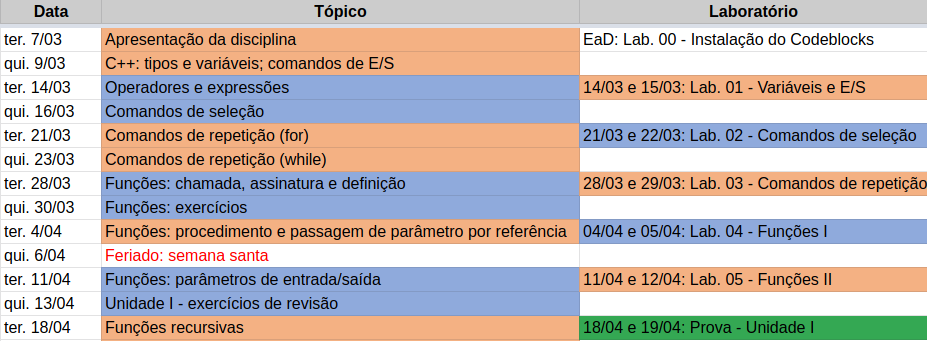
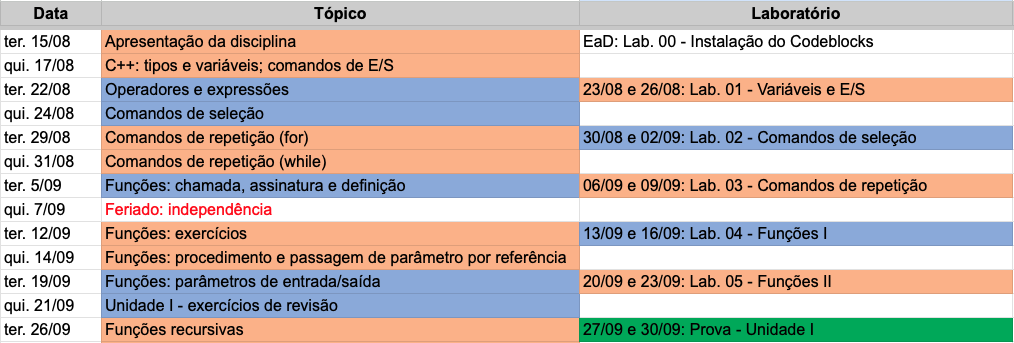
Arquivos da aula 1 atualizados para 2023.2

diff --git a/docs/slides/01-intro/01-intro.html b/docs/slides/01-intro/01-intro.html
@@ -345,7 +345,7 @@ Prof.&nbsp;Bruno Silva
 <ul>
 <li>Por que é tão importante?</li>
 <li>Por que 90h?</li>
-<li>Qual a relação com o curso de Bacharelado em Ciências e Tecnologia?</li>
+<li>Qual a relação com o curso de Bacharelado em Ciências e Tecnologia e com as engenharias?</li>
 </ul>
 </section>
 <section id="linguagem-de-programação-1" class="slide level2">
@@ -383,8 +383,7 @@ Prof.&nbsp;Bruno Silva
 <li>Atendimento:
 <ul>
 <li>Via email: bruno.silva@ect.ufrn.br</li>
-<li>Via <a href="https://discord.gg/JtSUgFdmxd">Discord</a></li>
-<li>Horário para a turma: terças e quintas, das 9:30 às 10:30</li>
+<li>Via <a href="https://discord.gg/hZ3VwKwV">Discord</a></li>
 </ul></li>
 <li>Áreas de interesse:
 <ul>
@@ -396,7 +395,7 @@ Prof.&nbsp;Bruno Silva
 <section id="sobre-a-disciplina" class="slide level2">
 <h2>Sobre a Disciplina</h2>
 <ul>
-<li>Aulas teóricas: terças e quintas, de 10:50 às 12:30, Auditório F da ECT</li>
+<li>Aulas teóricas: terças e quintas, de 20:35 às 22:00, Auditório E da ECT</li>
 <li>Carga horária: 90 horas (30h de laboratório)</li>
 <li>Metodologia:
 <ul>
@@ -409,9 +408,9 @@ Prof.&nbsp;Bruno Silva
 <section id="horários-dos-laboratórios" class="slide level2">
 <h2>Horários dos Laboratórios</h2>
 <ul>
-<li>Subturma 1A: Terça, 16:50 às 18:30, Lab. 3 (Prof.&nbsp;Bruno)</li>
-<li>Subturma 1B: Quarta, 14:55 às 16:35, Lab. 3 (Prof.&nbsp;Vidal)</li>
-<li>Subturma 1C: Quarta, 16:50 às 18:30, Lab. 3 (Prof.&nbsp;Vidal)</li>
+<li>Subturma 4A: Quarta, 13:00 às 14:40, Lab. 1 (Prof.&nbsp;Sérgio)</li>
+<li>Subturma 4B: Quarta, 14:55 às 16:35, Lab. 1 (Prof.&nbsp;Sérgio)</li>
+<li>Subturma 4C: Sábado, 16:50 às 18:30, Lab. 3 (Prof.&nbsp;Allan)</li>
 </ul>
 <p>As atividades práticas serão realizadas no <a href="https://multiprova.ufrn.br">Multiprova</a></p>
 </section>
@@ -435,22 +434,34 @@ Prof.&nbsp;Bruno Silva
 </ul></li>
 </ul>
 </section>
-<section id="cronograma" class="slide level2">
+<section id="cronograma" class="slide level2 nostretch">
 <h2>Cronograma</h2>
 <h4 id="unidade-1">Unidade 1</h4>
-
-<img data-src="unidade1.png" width="800" class="r-stretch"></section>
-<section id="cronograma-1" class="slide level2">
+<div class="quarto-figure quarto-figure-center">
+<figure>
+<p><img data-src="unidade1.png" style="width:95.0%"></p>
+</figure>
+</div>
+</section>
+<section id="cronograma-1" class="slide level2 nostretch">
 <h2>Cronograma</h2>
 <h4 id="unidade-2">Unidade 2</h4>
-
-<img data-src="unidade2.png" width="800" class="r-stretch"></section>
-<section id="cronograma-2" class="slide level2">
+<div class="quarto-figure quarto-figure-center">
+<figure>
+<p><img data-src="unidade2.png" style="width:95.0%"></p>
+</figure>
+</div>
+</section>
+<section id="cronograma-2" class="slide level2 nostretch">
 <h2>Cronograma</h2>
 <h4 id="unidade-3">Unidade 3</h4>
-
-<img data-src="unidade3.png" width="800" class="r-stretch"></section>
-<section id="livros-utilizados" class="slide level2">
+<div class="quarto-figure quarto-figure-center">
+<figure>
+<p><img data-src="unidade3.png" style="width:95.0%"></p>
+</figure>
+</div>
+</section>
+<section id="livros-utilizados" class="slide level2 nostretch">
 <h2>Livros Utilizados</h2>
 <div class="quarto-layout-panel">
 <div class="quarto-layout-row quarto-layout-valign-top">
@@ -469,7 +480,7 @@ Prof.&nbsp;Bruno Silva
 <section id="perguntas-frequentes" class="slide level2">
 <h2>Perguntas Frequentes</h2>
 <ul>
-<li><p><em>Posso assistir aula em uma subturma de laboratório que não seja a minha?</em> Neste semestre estamos oferecendo esta flexibilidade. Fale com o professor responsável pelo seu laboratório.</p></li>
+<li><p><em>Posso assistir aula em uma subturma de laboratório que não seja a minha?</em> Não. Caso não seja possível que você compareça às aulas de laboratório, é aconselhável que você se matricule em outra turma.</p></li>
 <li><p><em>Esta semana tem aula de laboratório?</em> Na disciplina de LiP, os laboratórios são semanais. Caso não haja nenhum aviso (no SIGAA), a resposta provavelmente é sim. Na dúvida, confira o plano de aulas no SIGAA.</p></li>
 </ul>
 </section>
@@ -493,7 +504,6 @@ Prof.&nbsp;Bruno Silva
 <li>Aluno que não <strong>ouve</strong> o professor
 <ul>
 <li>Paradoxo: se o aluno não ouve o professor, ele também não irá ouvir esta afirmação e portanto, o problema não tem solução</li>
-<li>Por exemplo: quantos daqui ouviram os argumentos da importância de LiP?</li>
 </ul></li>
 <li>Aluno que não estudou o suficiente para uma atividade</li>
 </ul>
@@ -541,7 +551,6 @@ Prof.&nbsp;Bruno Silva
   <script src="../../site_libs/revealjs/plugin/notes/notes.js"></script>
   <script src="../../site_libs/revealjs/plugin/search/search.js"></script>
   <script src="../../site_libs/revealjs/plugin/zoom/zoom.js"></script>
-  <script src="../../site_libs/revealjs/plugin/math/math.js"></script>
   <script>window.define = window.backupDefine; window.backupDefine = undefined;</script>
 
   <script>
@@ -709,27 +718,9 @@ Prof.&nbsp;Bruno Silva
         // Factor of the display size that should remain empty around the content
         margin: 0.1,
 
-        math: {
-          mathjax: 'https://cdnjs.cloudflare.com/ajax/libs/mathjax/2.7.0/MathJax.js',
-          config: 'TeX-AMS_HTML-full',
-          tex2jax: {
-            inlineMath: [['\\(','\\)']],
-            displayMath: [['\\[','\\]']],
-            balanceBraces: true,
-            processEscapes: false,
-            processRefs: true,
-            processEnvironments: true,
-            preview: 'TeX',
-            skipTags: ['script','noscript','style','textarea','pre','code'],
-            ignoreClass: 'tex2jax_ignore',
-            processClass: 'tex2jax_process'
-          },
-        },
-
         // reveal.js plugins
         plugins: [QuartoLineHighlight, PdfExport, RevealMenu, QuartoSupport,
 
-          RevealMath,
           RevealNotes,
           RevealSearch,
           RevealZoom

diff --git a/docs/README.md b/docs/README.md
@@ -1,14 +1,15 @@
 # Slides das Aulas
 
-## [07/03 - Apresentação](./slides/01-intro/01-intro.html)
+## [15/08 - Apresentação](./slides/01-intro/01-intro.html)
  - Objetivos
  - Metodologia
  - Bibliografia
 
-## [09/03 - Introdução ao C++](./slides/02-cpp/02-cpp.html)
+## [17/08 - Introdução ao C++](./slides/02-cpp/02-cpp.html)
  - Variáveis e tipos
- - Operadores e expressões
  - Entrada e saída
+
+<!--
 
 ## [14/03 - Operadores e Expressões](./slides/03-op_e_exp/03-op_e_exp.html)
  - Operadores em C++
@@ -129,3 +130,5 @@
 ## [06/07 - Aplicações com Matrizes de Relações](./slides/21-aplicacoes/21-aplicacoes.html)
 
 ## [11/07 - Matrizes de Relações - Exercícios](./slides/exercicios_relacoes/exercicios_relacoes.html)
+
+-->
